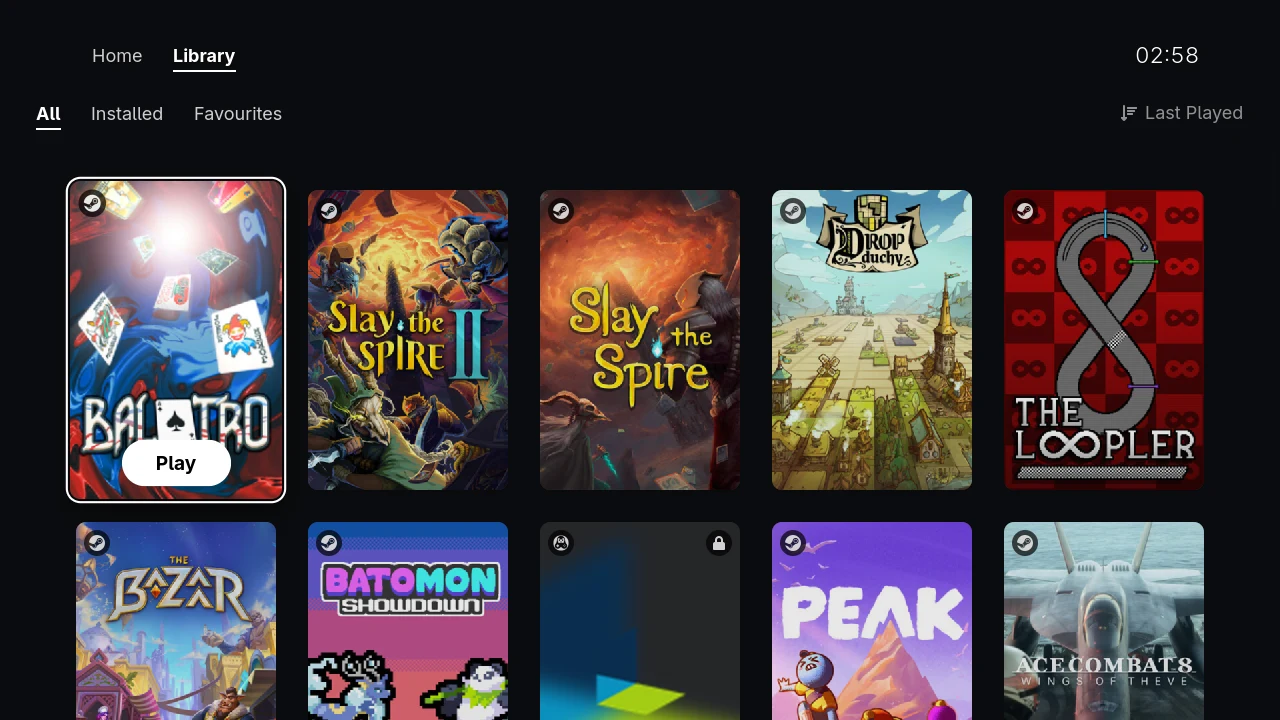
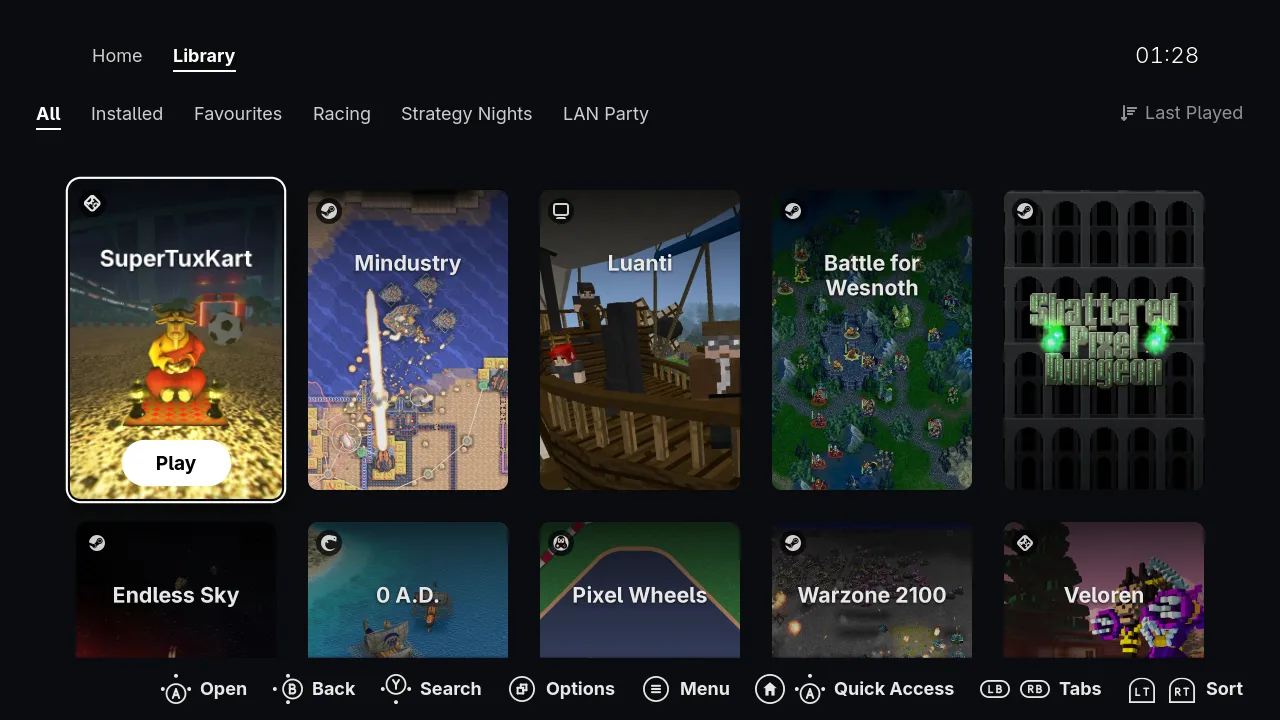
docs(readme): retake the screenshots with a libre demo library (#760)
All 15 README screenshots now show a demo library of 20 free and open-source
games, with covers, banners, icons and logos taken only from each game's
Flathub screenshots and icon or its repository's logo, under their licences.
docs/screenshots/CREDITS.md lists every source; the Licence table, the alt
texts and AI_DISCLOSURE.md follow.

Fixes #760

diff --git a/docs/screenshots/CREDITS.md b/docs/screenshots/CREDITS.md
@@ -1,0 +1,42 @@
+# Screenshot credits
+
+The README's screenshots in this folder show Pindu launcher with a demo library of 20 free and open-source games.
+Their art comes only from libre sources:
+
+- **Covers and banners** are crops of each game's official screenshots as published in its Flathub (AppStream)
+  listing, under the licence given there. Each cover has its head darkened under the game's name, set in
+  [Adwaita Sans](https://gitlab.gnome.org/GNOME/adwaita-fonts) Bold (SIL Open Font License 1.1), except Shattered
+  Pixel Dungeon's, a crop of its title screen whose own logo spells the name.
+- **Icons** are each game's AppStream icon from the same listing.
+- **Logos** (SuperTuxKart, Battle for Wesnoth, Mindustry) are the official logo files from each game's own
+  repository, under the terms listed below.
+- **Names, developers and licences** come from the games' AppStream data; the short descriptions are their AppStream
+  summaries (AppStream metadata is CC0-1.0). Categories and release years are the demo's own picks, and playtimes,
+  play dates, collections and favourites are made up.
+
+The launcher icons in the sidebar and on the covers are Pindu launcher's own files, credited in
+[`data/icons/sources/LICENSE`](../../data/icons/sources/LICENSE). The store screenshots in `data/screenshots/` have
+their own credits in [`data/screenshots/CREDITS.md`](../../data/screenshots/CREDITS.md).
+
+| Game | Licence (from its AppStream data) | Developer | Homepage | Art used |
+|---|---|---|---|---|
+| 0 A.D. | GPL-2.0+ and CC-BY-SA | Wildfire Games | https://play0ad.com/ | cover from screenshot [2](https://dl.flathub.org/media/com/play0ad/zeroad/fc68768a9464543510de651f0390401c/screenshots/image-2_orig.png); [icon](https://dl.flathub.org/media/com/play0ad/zeroad/fc68768a9464543510de651f0390401c/icons/128x128/com.play0ad.zeroad.png) |
+| Battle for Wesnoth | GPL-2.0-or-later | The Battle for Wesnoth Project | https://www.wesnoth.org | cover from screenshot [4](https://dl.flathub.org/media/org/wesnoth/Wesnoth/c28ef1cedc39d7dd0725c0d6aaeaaa7e/screenshots/image-4_orig.png); banner from screenshot [2](https://dl.flathub.org/media/org/wesnoth/Wesnoth/c28ef1cedc39d7dd0725c0d6aaeaaa7e/screenshots/image-2_orig.png); [icon](https://dl.flathub.org/media/org/wesnoth/Wesnoth/c28ef1cedc39d7dd0725c0d6aaeaaa7e/icons/128x128/org.wesnoth.Wesnoth.png); [logo](https://raw.githubusercontent.com/wesnoth/wesnoth/master/images/misc/l10n/en/logo.png) (GPL-2.0-or-later, the project's licence) |
+| Endless Sky | GPL-3.0-or-later | Michael Zahniser | https://endless-sky.github.io/ | cover and banner from screenshot [7](https://dl.flathub.org/media/io/github/endless_sky.endless_sky/654834f99c22e66de2dc7e665f3a24e2/screenshots/image-7_orig.png); [icon](https://dl.flathub.org/media/io/github/endless_sky.endless_sky/654834f99c22e66de2dc7e665f3a24e2/icons/128x128/io.github.endless_sky.endless_sky.png) |
+| Hedgewars | GPL-2.0 | Hedgewars Project | https://hedgewars.org/ | cover from screenshot [4](https://dl.flathub.org/media/org/hedgewars/Hedgewars/244b5e974f8f158d8385b32bfcc75421/screenshots/image-4_orig.png); banner from screenshot [6](https://dl.flathub.org/media/org/hedgewars/Hedgewars/244b5e974f8f158d8385b32bfcc75421/screenshots/image-6_orig.png); [icon](https://dl.flathub.org/media/org/hedgewars/Hedgewars/244b5e974f8f158d8385b32bfcc75421/icons/128x128/org.hedgewars.Hedgewars.png) |
+| Luanti | LGPL-2.1+ AND CC-BY-SA-3.0 AND MIT AND Apache-2.0 | Luanti Team | https://www.luanti.org | cover and banner from screenshot [3](https://dl.flathub.org/media/org/luanti/luanti/3eb44fe2446034fb2bb3323b9a298cb4/screenshots/image-3_orig.png); [icon](https://dl.flathub.org/media/org/luanti/luanti/3eb44fe2446034fb2bb3323b9a298cb4/icons/128x128/org.luanti.luanti.png) |
+| MegaGlest | GPL-3.0+ and CC-BY-SA-3.0 | The MegaGlest Team | http://megaglest.org | cover from screenshot [1](https://dl.flathub.org/media/org/megaglest/MegaGlest/67bcf89193bd205a4b6c5e751d15dab4/screenshots/image-1_orig.png); [icon](https://dl.flathub.org/media/org/megaglest/MegaGlest/67bcf89193bd205a4b6c5e751d15dab4/icons/128x128/org.megaglest.MegaGlest.png) |
+| Mindustry | GPL-3.0 | Anuken et al. | https://mindustrygame.github.io/ | cover from screenshot [3](https://dl.flathub.org/media/com/github/Anuken.Mindustry/2804e472bd74db522c749cfbd7c63315/screenshots/image-3_orig.png); banner from screenshot [1](https://dl.flathub.org/media/com/github/Anuken.Mindustry/2804e472bd74db522c749cfbd7c63315/screenshots/image-1_orig.png); [icon](https://dl.flathub.org/media/com/github/Anuken.Mindustry/2804e472bd74db522c749cfbd7c63315/icons/128x128/com.github.Anuken.Mindustry.png); [logo](https://raw.githubusercontent.com/Anuken/Mindustry/master/core/assets/sprites/logo.png) (GPL-3.0, the repository's licence) |
+| Naev | GPL-3.0-or-later | Naev DevTeam | https://naev.org | cover and banner from screenshot [1](https://dl.flathub.org/media/org/naev/Naev/7afc55b5eb13b169a4851c0c33824e5d/screenshots/image-1_orig.png); [icon](https://dl.flathub.org/media/org/naev/Naev/7afc55b5eb13b169a4851c0c33824e5d/icons/128x128/org.naev.Naev.png) |
+| OpenTTD | GPL-2.0-only | The OpenTTD team | https://www.openttd.org | cover from screenshot [3](https://dl.flathub.org/media/org/openttd/OpenTTD/cf50e926adf1b7da3c604ea4a38c39e6/screenshots/image-3_orig.png); banner from screenshot [2](https://dl.flathub.org/media/org/openttd/OpenTTD/cf50e926adf1b7da3c604ea4a38c39e6/screenshots/image-2_orig.png); [icon](https://dl.flathub.org/media/org/openttd/OpenTTD/cf50e926adf1b7da3c604ea4a38c39e6/icons/128x128/org.openttd.OpenTTD.png) |
+| Pixel Wheels | GPL-3.0-or-later | Aurélien Gâteau | https://agateau.com/projects/pixelwheels | cover from screenshot [2](https://dl.flathub.org/media/com/agateau/PixelWheels/2864bc7e67a4ab6d2f61e0ddf27bbe37/screenshots/image-2_orig.png); banner from screenshot [5](https://dl.flathub.org/media/com/agateau/PixelWheels/2864bc7e67a4ab6d2f61e0ddf27bbe37/screenshots/image-5_orig.png); [icon](https://dl.flathub.org/media/com/agateau/PixelWheels/2864bc7e67a4ab6d2f61e0ddf27bbe37/icons/128x128/com.agateau.PixelWheels.png) |
+| Red Eclipse | Zlib and CC-BY-SA-3.0+ | Red Eclipse Team | https://redeclipse.net | [icon](https://dl.flathub.org/media/net/redeclipse/RedEclipse/13297d36456d194b68dce0932b604f60/icons/128x128/net.redeclipse.RedEclipse.png) |
+| Shattered Pixel Dungeon | GPL-3.0-only | Evan Debenham | https://shatteredpixel.com/ | cover and banner from screenshot [1](https://dl.flathub.org/media/com/shatteredpixel/shatteredpixeldungeon/6a9c7f124288259c0fa5a1d6686d3025/screenshots/image-1_orig.png) (the title screen, its menu and exit buttons painted over with its own repeating background; no added name); [icon](https://dl.flathub.org/media/com/shatteredpixel/shatteredpixeldungeon/6a9c7f124288259c0fa5a1d6686d3025/icons/128x128/com.shatteredpixel.shatteredpixeldungeon.png) |
+| SuperTux | GPL-3.0-or-later | The SuperTux Team | https://www.supertux.org | cover from screenshot [1](https://dl.flathub.org/media/org/supertuxproject/SuperTux/4f6b0552fdc2366441e0bdc30b86f123/screenshots/image-1_orig.png); banner from screenshot [2](https://dl.flathub.org/media/org/supertuxproject/SuperTux/4f6b0552fdc2366441e0bdc30b86f123/screenshots/image-2_orig.png); [icon](https://dl.flathub.org/media/org/supertuxproject/SuperTux/4f6b0552fdc2366441e0bdc30b86f123/icons/128x128/org.supertuxproject.SuperTux.png) |
+| SuperTuxKart | GPL-3.0+ | SuperTuxKart Team | https://supertuxkart.net | cover from screenshot [3](https://dl.flathub.org/media/net/supertuxkart/SuperTuxKart/028ae02b599fe94c187b4956f39b6245/screenshots/image-3_orig.png); banner from screenshot [1](https://dl.flathub.org/media/net/supertuxkart/SuperTuxKart/028ae02b599fe94c187b4956f39b6245/screenshots/image-1_orig.png); [icon](https://dl.flathub.org/media/net/supertuxkart/SuperTuxKart/028ae02b599fe94c187b4956f39b6245/icons/128x128/net.supertuxkart.SuperTuxKart.png); [logo](https://raw.githubusercontent.com/supertuxkart/stk-code/master/data/gui/icons/logo.png) (rastapax, CC-BY-SA-3.0+, per the repository's `data/gui/icons/licenses.txt`) |
+| Teeworlds | Zlib and CC-BY-SA-3.0 | Teeworlds Team | https://www.teeworlds.com | cover from screenshot [1](https://dl.flathub.org/media/com/teeworlds/Teeworlds/3270368e3ac0f0d21d14dc8ee8ea522e/screenshots/image-1_orig.png); banner from screenshot [2](https://dl.flathub.org/media/com/teeworlds/Teeworlds/3270368e3ac0f0d21d14dc8ee8ea522e/screenshots/image-2_orig.png); [icon](https://dl.flathub.org/media/com/teeworlds/Teeworlds/3270368e3ac0f0d21d14dc8ee8ea522e/icons/128x128/com.teeworlds.Teeworlds.png) |
+| Unvanquished | MIT AND GPL-3.0-or-later AND Zlib AND BSD-3-Clause | Unvanquished Development | https://unvanquished.net | cover from screenshot [1](https://dl.flathub.org/media/net/unvanquished/Unvanquished/34a5d405a81a236c1961f899832a3912/screenshots/image-1_orig.png); [icon](https://dl.flathub.org/media/net/unvanquished/Unvanquished/34a5d405a81a236c1961f899832a3912/icons/128x128/net.unvanquished.Unvanquished.png) |
+| Veloren | GPL-3.0-or-later | The Veloren Community | https://veloren.net | cover from screenshot [3](https://dl.flathub.org/media/net/veloren/veloren/27a209d977676ce92ae6a2467cabd8e9/screenshots/image-3_orig.png); banner from screenshot [1](https://dl.flathub.org/media/net/veloren/veloren/27a209d977676ce92ae6a2467cabd8e9/screenshots/image-1_orig.png); [icon](https://dl.flathub.org/media/net/veloren/veloren/27a209d977676ce92ae6a2467cabd8e9/icons/128x128/net.veloren.veloren.png) |
+| Warzone 2100 | GPL-2.0-or-later | Warzone 2100 Project | https://wz2100.net/ | cover from screenshot [1](https://dl.flathub.org/media/net/wz2100/wz2100/bfdde69ffa213731d05d4df4e13f5c44/screenshots/image-1_orig.png); banner from screenshot [2](https://dl.flathub.org/media/net/wz2100/wz2100/bfdde69ffa213731d05d4df4e13f5c44/screenshots/image-2_orig.png); [icon](https://dl.flathub.org/media//net/wz2100/wz2100/bfdde69ffa213731d05d4df4e13f5c44/icons/128x128/net.wz2100.wz2100.png) |
+| X-Moto | GPL-2.0+ | X-Moto Contributors | https://xmoto.org | cover from screenshot [3](https://dl.flathub.org/media/org/tuxfamily/XMoto/2818aad2a172fc12d0f1717bb125133e/screenshots/image-3_orig.png); banner from screenshot [1](https://dl.flathub.org/media/org/tuxfamily/XMoto/2818aad2a172fc12d0f1717bb125133e/screenshots/image-1_orig.png); [icon](https://dl.flathub.org/media/org/tuxfamily/XMoto/2818aad2a172fc12d0f1717bb125133e/icons/128x128/org.tuxfamily.XMoto.png) |
+| Xonotic | GPL-3.0-or-later | Team Xonotic | https://xonotic.org | cover and banner from screenshot [5](https://dl.flathub.org/media/org/xonotic/Xonotic/f2d9cb80cb249597a5c113fcfe95b8e2/screenshots/image-5_orig.png); [icon](https://dl.flathub.org/media/org/xonotic/Xonotic/f2d9cb80cb249597a5c113fcfe95b8e2/icons/128x128/org.xonotic.Xonotic.png) |

diff --git a/README.md b/README.md
@@ -17,15 +17,15 @@
 </div>
 
 <p align="center">
-  <img src="docs/screenshots/desktop-1-library.webp" width="820" alt="Desktop library with a sidebar for library views, sources with their launcher icons and the Racing and Roguelikes collections, a header bar with search, view, sort, Fullscreen Mode and main menu buttons, filter chips above the cover grid, and a Jump Back In row with Aurora Drift, Ember Hollow, Glass Cathedral and Orbit Tailor">
+  <img src="docs/screenshots/desktop-1-library.webp" width="820" alt="Desktop library of free and open-source games, with a sidebar for library views, the Steam, Heroic, Lutris, Faugus and Desktop sources with their launcher icons and the Racing, Strategy Nights and LAN Party collections, a header bar with search, view, sort, Fullscreen Mode and main menu buttons, filter chips above the cover grid, and a Jump Back In row with SuperTuxKart, Mindustry, Luanti and Battle for Wesnoth">
 </p>
 
 <p align="center">
-  <img src="docs/screenshots/desktop-2-game-page.webp" width="405" alt="Slay the Spire 2's game page with its banner art, a Play button, 129 hours of Steam playtime and About details from Steam">
-  <img src="docs/screenshots/desktop-3-play-history.webp" width="405" alt="Play History with the games played today, this week and earlier, each with its last-played date and playtime">
+  <img src="docs/screenshots/desktop-2-game-page.webp" width="405" alt="Mindustry's game page with its logo over the banner art, a Play button, 129 hours of Steam playtime and About details from Steam">
+  <img src="docs/screenshots/desktop-3-play-history.webp" width="405" alt="Play History with the games played today, this week and earlier, each with its last-played date, playtime and launcher">
   <br>
-  <img src="docs/screenshots/desktop-4-collection.webp" width="405" alt="The Roguelikes collection with covers for Ember Hollow and Moss &amp; Machine">
-  <img src="docs/screenshots/desktop-5-game-page-dark.webp" width="405" alt="Balatro's game page in dark style, with its logo over the banner art and its game details">
+  <img src="docs/screenshots/desktop-4-collection.webp" width="405" alt="The Strategy Nights collection with covers for Mindustry, Battle for Wesnoth, 0 A.D., Warzone 2100, OpenTTD and MegaGlest, which is not installed">
+  <img src="docs/screenshots/desktop-5-game-page-dark.webp" width="405" alt="Battle for Wesnoth's game page in dark style, with its logo over the banner art and its game details">
 </p>
 
 ## Status
@@ -216,33 +216,33 @@ Adwaita, the look with no design ([Styling fullscreen mode](#styling-fullscreen-
     <th colspan="2">Lobby, the default design</th>
   </tr>
   <tr>
-    <td align="center"><img src="docs/screenshots/fullscreen-lobby-home.webp" width="405" alt="Lobby's Home: labelled section tiles across the top over the red animated background, with Recently Played focused and its covers previewed below"><br><sub>Home</sub></td>
-    <td align="center"><img src="docs/screenshots/fullscreen-lobby-library.webp" width="405" alt="Lobby's Library: All, Installed and Favourites tabs over a grid of covers sorted by Last Played, with Play on Balatro"><br><sub>Library</sub></td>
+    <td align="center"><img src="docs/screenshots/fullscreen-lobby-home.webp" width="405" alt="Lobby's Home: labelled section tiles across the top over the red animated background, among them Favourites, Installed, Categories and the Steam, Heroic, Lutris and Faugus sources, with Recently Played focused and its six covers previewed below"><br><sub>Home</sub></td>
+    <td align="center"><img src="docs/screenshots/fullscreen-lobby-library.webp" width="405" alt="Lobby's Library: All, Installed and Favourites tabs and a tab per collection over a grid of covers sorted by Last Played, with Play on SuperTuxKart"><br><sub>Library</sub></td>
   </tr>
   <tr>
-    <td align="center"><img src="docs/screenshots/fullscreen-lobby-menu.webp" width="405" alt="The menu drawer open over Lobby's Home: Home (focused, the page under the menu), Library with its 20 games and Search, the Racing and Roguelikes collections under a Collections heading, and at the foot the power dock's round buttons: Exit Fullscreen Mode and Exit Pindu Launcher, then Suspend, Restart and Power Off"><br><sub>Menu (Start)</sub></td>
+    <td align="center"><img src="docs/screenshots/fullscreen-lobby-menu.webp" width="405" alt="The menu drawer open over Lobby's Home: Home (focused, the page under the menu), Library with its 20 games and Search, the Racing, Strategy Nights and LAN Party collections under a Collections heading, and at the foot the power dock's round buttons: Exit Fullscreen Mode and Exit Pindu Launcher, then Suspend, Restart and Power Off"><br><sub>Menu (Start)</sub></td>
     <td align="center"><img src="docs/screenshots/fullscreen-lobby-quick-access.webp" width="405" alt="Quick Access open over Lobby's Home on its Quick section: the clock, the strip of six sections with Quick shown, and Lobby's tiles in three columns, Bluetooth (focused, Blocked), Network (Wired), Surprise Me, Refresh Library and Add a Game"><br><sub>Quick Access (R3, or Guide + A)</sub></td>
   </tr>
   <tr>
     <th colspan="2">Marquee</th>
   </tr>
   <tr>
-    <td align="center"><img src="docs/screenshots/fullscreen-marquee-home.webp" width="405" alt="Marquee's Home: Balatro's art across the screen under Jump Back In, its logo and details, and a row of recent games then section tiles"><br><sub>Home</sub></td>
-    <td align="center"><img src="docs/screenshots/fullscreen-marquee-library.webp" width="405" alt="Marquee's Library: a grid of covers sorted by Last Played, with Play on Balatro"><br><sub>Library</sub></td>
+    <td align="center"><img src="docs/screenshots/fullscreen-marquee-home.webp" width="405" alt="Marquee's Home: SuperTuxKart's art across the screen under Jump Back In, its logo and details, and a row of recent games then section tiles"><br><sub>Home</sub></td>
+    <td align="center"><img src="docs/screenshots/fullscreen-marquee-library.webp" width="405" alt="Marquee's Library: a grid of covers sorted by Last Played, with Play on SuperTuxKart"><br><sub>Library</sub></td>
   </tr>
   <tr>
     <th colspan="2">Shelves</th>
   </tr>
   <tr>
-    <td align="center"><img src="docs/screenshots/fullscreen-shelves-home.webp" width="405" alt="Shelves' Home: Balatro's logo and details at the top, then a Jump Back In row of wide cards and an Installed row of covers"><br><sub>Home</sub></td>
-    <td align="center"><img src="docs/screenshots/fullscreen-shelves-library.webp" width="405" alt="Shelves' Library: a grid of covers sorted by Last Played, with Play on Balatro"><br><sub>Library</sub></td>
+    <td align="center"><img src="docs/screenshots/fullscreen-shelves-home.webp" width="405" alt="Shelves' Home: SuperTuxKart's logo and details at the top, then a Jump Back In row of wide cards and a Favourites row of covers"><br><sub>Home</sub></td>
+    <td align="center"><img src="docs/screenshots/fullscreen-shelves-library.webp" width="405" alt="Shelves' Library: a grid of covers sorted by Last Played, with Play on SuperTuxKart"><br><sub>Library</sub></td>
   </tr>
   <tr>
     <th colspan="2">Adwaita (no design)</th>
   </tr>
   <tr>
-    <td align="center"><img src="docs/screenshots/fullscreen-adwaita-home.webp" width="405" alt="Adwaita's Home: Home and Library tabs in the middle of the top bar, a banner for Balatro with Play focused, a row of section tiles and an Installed row of covers"><br><sub>Home</sub></td>
-    <td align="center"><img src="docs/screenshots/fullscreen-adwaita-library.webp" width="405" alt="Adwaita's Library: pill tabs for All, Installed and Favourites over a grid of covers, with Play on Balatro"><br><sub>Library</sub></td>
+    <td align="center"><img src="docs/screenshots/fullscreen-adwaita-home.webp" width="405" alt="Adwaita's Home: Home and Library tabs in the middle of the top bar, a banner for SuperTuxKart with Play, a row of section and collection tiles and a Favourites row of covers"><br><sub>Home</sub></td>
+    <td align="center"><img src="docs/screenshots/fullscreen-adwaita-library.webp" width="405" alt="Adwaita's Library: pill tabs for All, Installed, Favourites and each collection over a grid of covers, with Play on SuperTuxKart"><br><sub>Library</sub></td>
   </tr>
 </table>
 
@@ -820,7 +820,8 @@ so the fullscreen mode is a second presentation of the same library.
 | [`docs/translating.md`](docs/translating.md) | How translations are laid out, the Weblate settings, and translating without Weblate |
 | [`docs/agent-tasks/README.md`](docs/agent-tasks/README.md) | How each change traces to its issue: branch, commit, pull request and merge |
 | [`docs/multi-agent.md`](docs/multi-agent.md) | Who works on the repository, how work moves between agents, and how changes merge |
-| [`data/screenshots/CREDITS.md`](data/screenshots/CREDITS.md) | Where the demo library's game art comes from, and its licences |
+| [`data/screenshots/CREDITS.md`](data/screenshots/CREDITS.md) | Where the store screenshots' game art comes from, and its licences |
+| [`docs/screenshots/CREDITS.md`](docs/screenshots/CREDITS.md) | Where the README screenshots' game art comes from, and its licences |
 | [`docs/metrics/README.md`](docs/metrics/README.md) | The gates every change passes, what each measures and how to run it |
 | [`docs/reflections/README.md`](docs/reflections/README.md) | Lessons from past sessions and incidents, and how to write one |
 | [`CONTRIBUTING.md`](CONTRIBUTING.md) | How to build, find work and get a change merged |
@@ -902,4 +903,4 @@ Corporation in the U.S. and/or other countries.
 | `data/icons/sources/` (launcher icons) | Each icon's own terms, listed in [`LICENSE`](data/icons/sources/LICENSE): the Steam logo (Simple Icons, CC0 1.0, used under Valve's branding guidelines), Cartridges' Lutris, Bottles and Legendary icons (GPL-3.0-or-later), Faugus Launcher's logo (MIT) and the itch.io logo (itch.io press kit) |
 | `docs/brand/readme-banner.svg` | [GPL-3.0-or-later](LICENSE); the outlined text is [Adwaita Sans](https://gitlab.gnome.org/GNOME/adwaita-fonts), SIL Open Font License 1.1 |
 | Game art in `data/screenshots/` | Each game's own licence, listed in [`CREDITS.md`](data/screenshots/CREDITS.md) |
-| Game art in `docs/screenshots/` | Belongs to each game's publisher; shown as Pindu launcher displays a real library |
+| Game art in `docs/screenshots/` | Each game's own licence, listed in [`CREDITS.md`](docs/screenshots/CREDITS.md) |

diff --git a/AI_DISCLOSURE.md b/AI_DISCLOSURE.md
@@ -81,7 +81,7 @@ come from the same CLI-agent sessions and are counted as AI-assisted. The 26 com
 | `data/home/background-*.webm`, Home's "Ambient Flow" background | A person, without AI |
 | `data/screenshots/*.png`, the store screenshots (#58) | A person, without AI |
 | `docs/*.pdf`, the main spec and the research documents | AI-assisted (deep research and drafting) |
-| `docs/screenshots/`, the README's screenshots (#360) | AI-assisted: captured from the running app in an agent session |
+| `docs/screenshots/`, the README's screenshots (#360, #760) | AI-assisted: captured from the running app in an agent session. The demo library they show (#760) was made by an agent's scripts: covers and banners cropped from the games' Flathub screenshots (one title screen's menu buttons painted over with its own repeating background), the game names set on the covers in Adwaita Sans, and the games' own icons and official logos, only trimmed to their edges; no art is AI-generated ([`CREDITS.md`](docs/screenshots/CREDITS.md)) |
 
 ## Written by a person without AI
 
